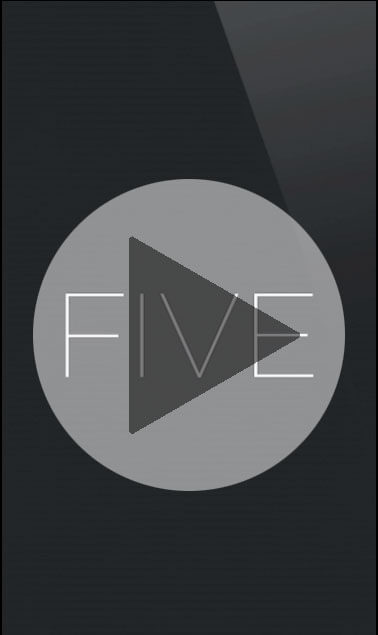
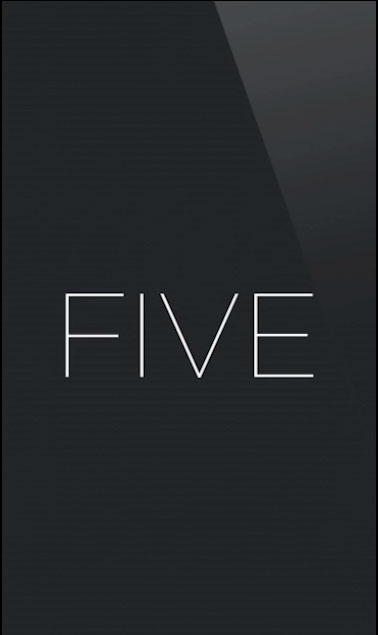
five video

diff --git a/src/data/caseStudies.js b/src/data/caseStudies.js
@@ -14,14 +14,6 @@ export const caseStudies = [
     heading: 'The world’s fourth largest software company approached Redshift with a critical challenge: How can we get more Norton on more devices?',
     content: [
       {
-        video: {
-          url: 'https://s3-us-west-1.amazonaws.com/rs-website-cdn/video/norton_950x624.mp4',
-          url_sm: 'https://s3-us-west-1.amazonaws.com/rs-website-cdn/video/norton_950x624_sm.mp4',
-          maxWidth: '71.4%',
-          videoImage: require('assets/img/case-studies/laptop.png'),
-          videoPadding: '7.6% 0 10.7%',
-          videoPoster: require('assets/img/home/Norton/norton-video-arrow.jpg')
-        },
         copy: [
           {
             classes: 'casestudy__text typ--h3',
@@ -30,13 +22,14 @@ export const caseStudies = [
         ]
       },
       {
-        images:
-        {
-          imgDef: require('assets/img/home/Norton/norton7.jpg'),
-          imgTlg: require('assets/img/home/Norton/norton7_tlg.jpg'),
-          imgMlg: require('assets/img/home/Norton/norton7_mlg.jpg')
+        video: {
+          url: 'https://s3-us-west-1.amazonaws.com/rs-website-cdn/video/norton_950x624.mp4',
+          url_sm: 'https://s3-us-west-1.amazonaws.com/rs-website-cdn/video/norton_950x624_sm.mp4',
+          maxWidth: '71.4%',
+          videoImage: require('assets/img/case-studies/laptop.png'),
+          videoPadding: '7.6% 0 10.7%',
+          videoPoster: require('assets/img/home/Norton/norton-video-arrow.jpg')
         },
-        imgAlt: 'Norton Online 6',
         copy: [
           {
             classes: 'casestudy__text typ--h3',
@@ -321,13 +314,15 @@ export const caseStudies = [
         ]
       },
       {
-        // video: {
-        //   url: 'https://s3-us-west-1.amazonaws.com/rs-website-cdn/video/five_374x666.mp4',
-        //   maxWidth: '28.5%',
-        //   videoImage: require('assets/img/case-studies/iphone.png'),
-        //   videoPadding: '17% 0 15.3%',
-        //   videoMargin: '-10.6%'
-        // },
+        video: {
+          url: 'https://s3-us-west-1.amazonaws.com/rs-website-cdn/video/five_blinds_640x1136.mp4',
+          url_sm: 'https://s3-us-west-1.amazonaws.com/rs-website-cdn/video/five_blinds_640x1136.mp4',
+          maxWidth: '28.5%',
+          videoImage: require('assets/img/case-studies/iphone.png'),
+          videoPadding: '17% 0 15.3%',
+          videoMargin: '-10.6%',
+          videoPoster: require('assets/img/home/Five/five-video-arrow.jpg')
+        },
         copy: [
           {
             classes: 'casestudy__text typ--h3 pb7',
